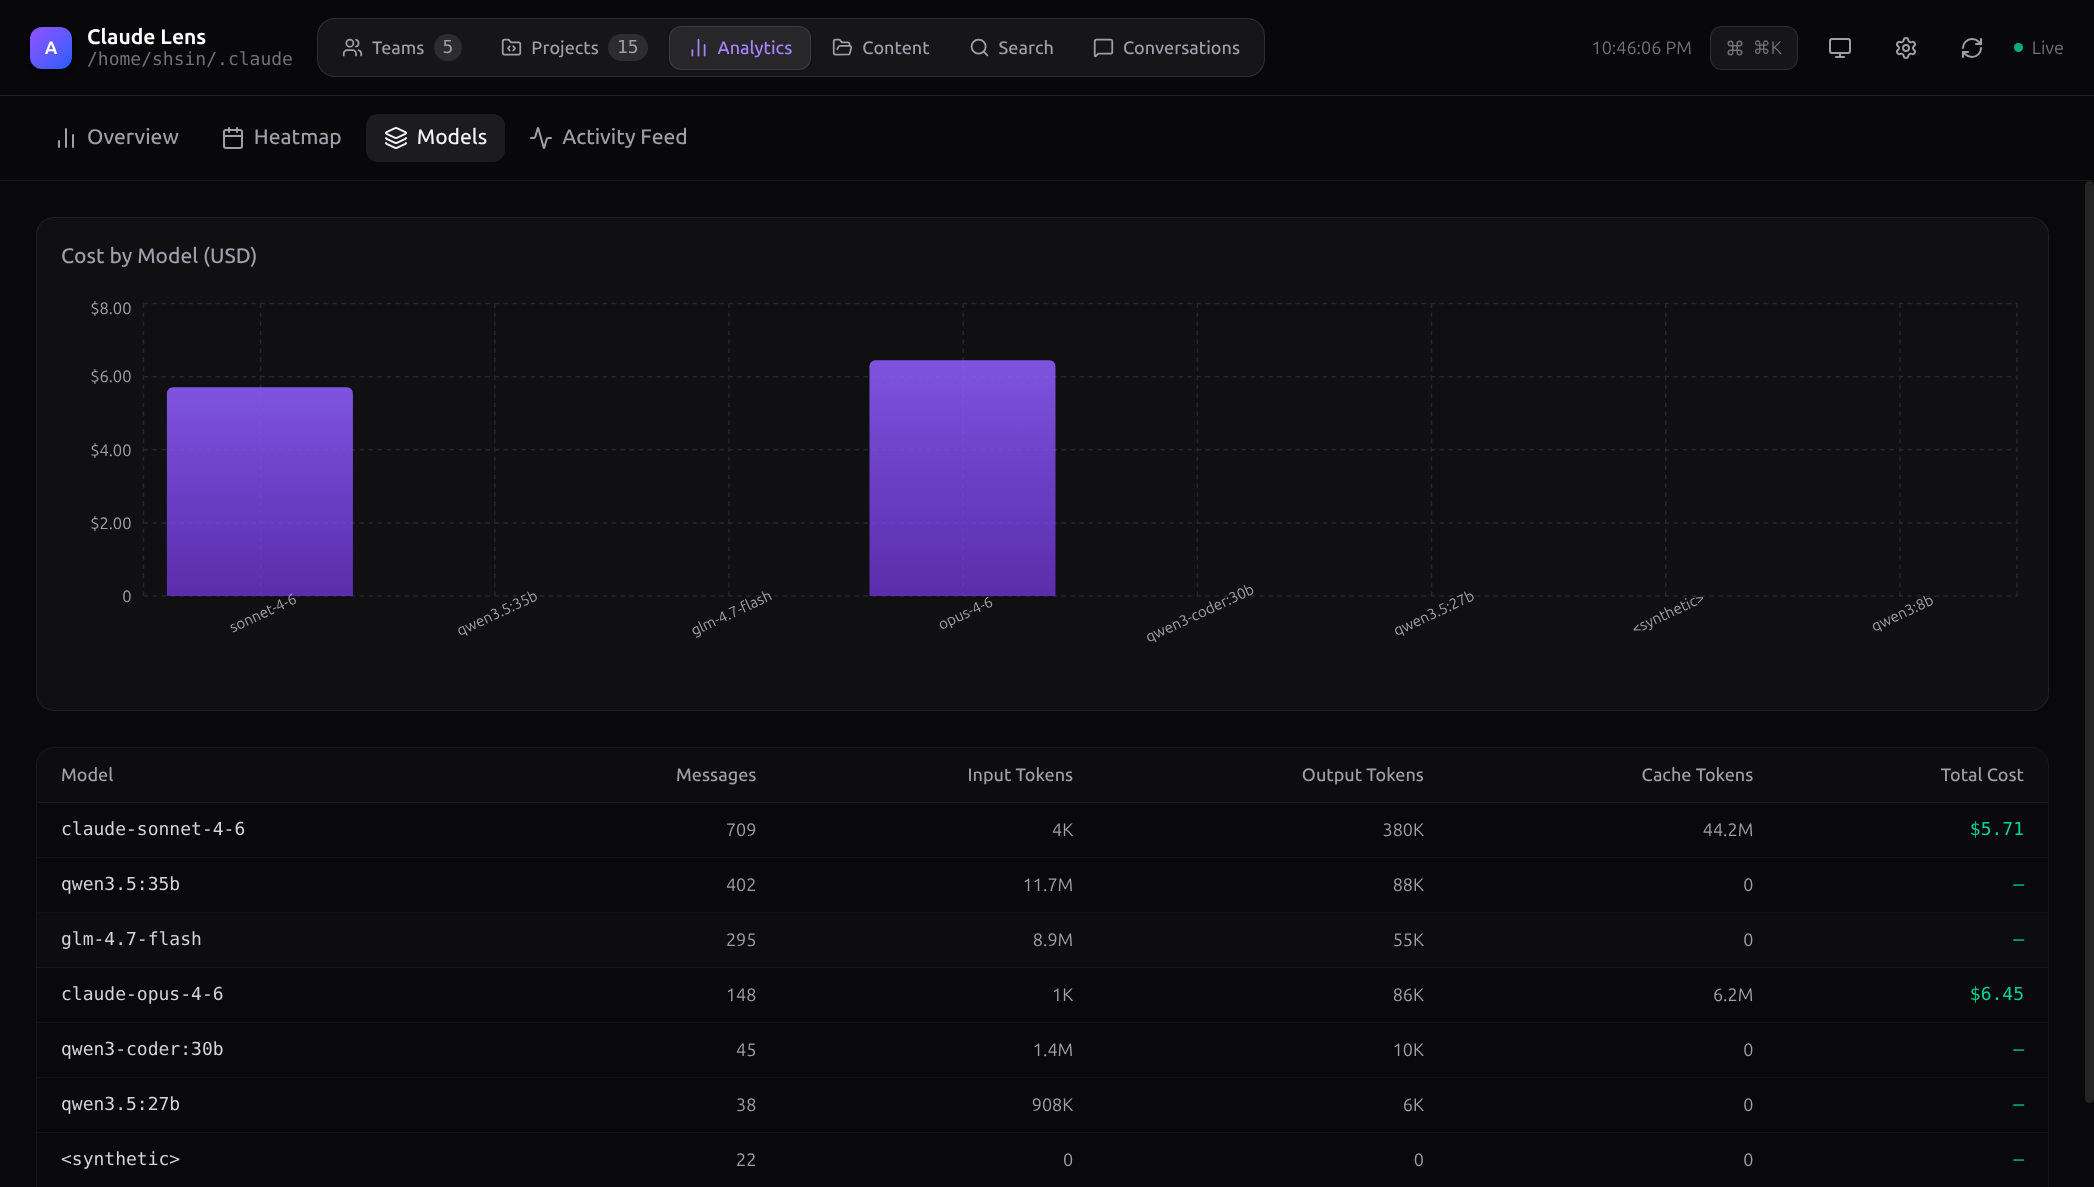
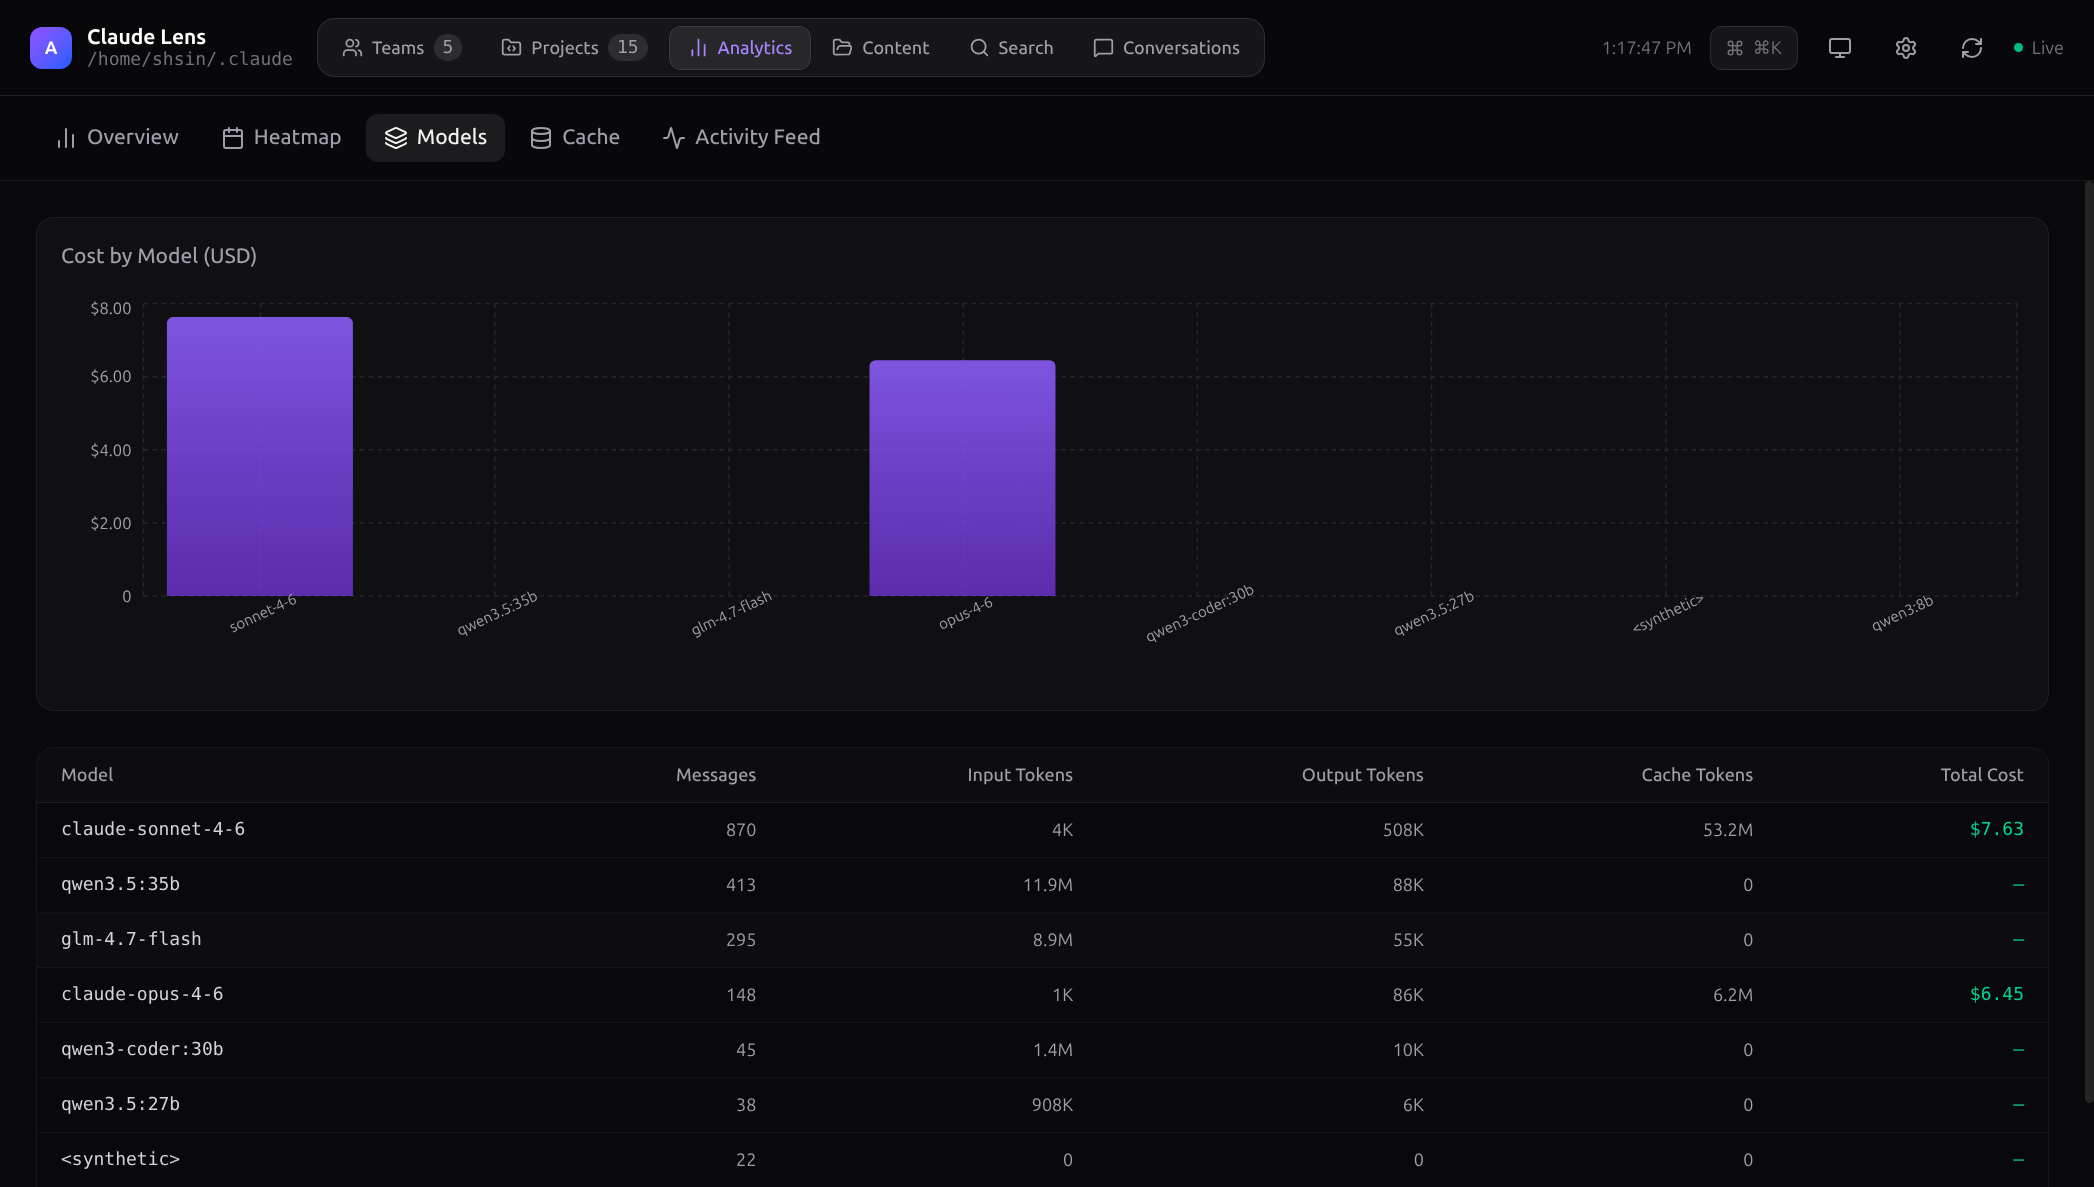
update claude lens

Changed region(s): [[0.0621, 0.2494, 0.1862, 0.3429], [0.2483, 0.0935, 0.4035, 0.1247]]

diff --git a/content/posts/claude-lens.md b/content/posts/claude-lens.md
@@ -1,151 +1,180 @@
 ---
-title: Claude Lens- The Control Tower for Claude Code Agent Teams
+title: "Claude Lens: The Missing GUI for Claude Code's Multi-Agent System"
 date: 2026-03-03
 tags:
   - agents
   - claude
 coverImage: /images/claude-lens/cover.png
-excerpt: Claude Lens turns your `~/.claude/` directory into a sleek, real-time observability dashboard for Claude Code's multi-agent system.
+excerpt: I built a desktop app that turns ~/.claude/ into a real-time observability dashboard. Teams, costs, conversations, analytics — one window, zero JSON spelunking.
 draft: false
 ---
-You spin up a team of agents, watch them scatter into the depths of your codebase, tasks start flowing, tokens start burning—and you're left staring at a scrolling terminal wondering:
 
-*What is actually happening?*
-*How much is this costing me?*
-*Did that task even finish, or is the agent hallucinating in an infinite loop?*
+You spawn a team of six agents. They fan out across your codebase — refactoring modules, writing tests, updating docs. Tokens burn. Tasks fly. And you're left staring at a terminal, wondering:
 
-Welcome to the chaos of multi-agent development.
+*Is that agent stuck in a loop? How much has this cost me? Did the migration task actually finish?*
 
-Enter **Claude Lens**.
+There's no dashboard. No overview. Just raw `.jsonl` files and `~/.claude/tasks/` directories you'd have to `cat` like a caveman.
 
-It's a native desktop app that turns your `~/.claude/` directory into a sleek, real-time observability dashboard.
-![Claude Lens](/images/claude-lens/card-view-dark.png) Think of it as the GUI that Claude Code's multi-agent system desperately needed but never shipped with.
+So I built one.
 
-I built it because I needed it. If you're a power user of Claude Code, you're going to need it too.
+**Claude Lens** is a native desktop app that reads your `~/.claude/` directory and gives you a real-time control tower over everything Claude Code does — teams, agents, tasks, costs, conversations, settings, and system health.
 
-[Github](https://github.com/shansin/claude-lens)
+![Claude Lens — Card View](/images/claude-lens/card-view-dark.png)
 
----
-## The Problem: Flying Blind in a Swarm
+It's open source, it's free, and if you're running multi-agent Claude Code, you probably need it.
 
-Claude Code's agent team feature is basically magic. You can spawn a lead agent, watch it recruit teammates, assign them tasks, and coordinate a massive refactor while you sip your coffee.
-
-But once that swarm is unleashed, your visibility is reduced to:
-
-- A terminal output scrolling past faster than you can read.
-- Manually `cat`-ing JSON files in `~/.claude/tasks/` like a caveman.
-- Having absolutely no idea what your token spend is until the API bill arrives.
-- Zero way to comfortably browse past conversations without spelunking through `.jsonl` files.
-
-For a single-agent session, you can manage. For a team of 4–6 agents operating in parallel? It's unmanageable.
-
-Claude Lens gives you a single, glorious pane of glass over **everything**: teams, tasks, agents, costs, conversations, analytics, and system health. And it's all updated in real-time.
+[GitHub](https://github.com/shansin/claude-lens)
 
 ---
-## What Claude Lens Actually Does
 
-### Real-Time Team Monitoring (Choose Your Fighter)
+## Why I Built This
 
-The Teams view is the heart of Claude Lens, and we've got three distinct layouts based on how your brain works:
+For single-agent sessions, the terminal is fine. But the moment you use Claude Code's team feature — a lead agent recruiting teammates, assigning tasks, coordinating across files — your visibility drops to zero.
 
-- **Card View**: A clean, responsive grid of team cards. Progress bars, agent counts, task lists, and cost breakdowns at a single glance.
-- **Graph View**: This is the eye candy. Built on React Flow, it renders your entire team topology as an interactive, animated node graph. Violet edges for team-agent links, animated blue pulses for in-progress tasks, and dashed orange for blocking dependencies. Zoom, pan, and click to inspect. It's the ultimate way to untangle complex dependency chains.
-- **Split View**: The pragmatist's layout. Graph on the left, juicy details and task lists on the right.
+Here's what "monitoring" looked like before:
+
+- Terminal output scrolling faster than you can read
+- Manually inspecting JSON task files to check status
+- No idea what your token spend is until the API bill arrives
+- Digging through `.jsonl` files to find what an agent said two days ago
+
+Claude Lens replaces all of that with a single window.
+
+---
+
+## Teams: Three Ways to See Your Swarm
+
+The Teams view is the nerve center. Choose the layout that fits your brain:
+
+**Card View** gives you a responsive grid — progress bars, agent counts, model badges, task lists, and live cost tracking per team.
 
 ![Card View](/images/claude-lens/card-view.png)
 
+**Graph View** renders your entire team topology as an interactive node graph. Violet edges for team-agent links, animated blue pulses for in-progress tasks, dashed orange for blocking dependencies. Click any node to inspect it.
+
 ![Graph View](/images/claude-lens/graph-view.png)
+
+**Split View** — graph on the left, detail panel on the right. The pragmatist's layout.
 
 ![Split View](/images/claude-lens/split-view.png)
 
-### Cost Tracking That Actually Works
+Need a new team? Hit **New Team** in the toolbar. Name it, describe it, click Create. No terminal required.
 
-I built this first because I was tired of guessing my token spend.
+---
 
-Claude Lens scans every JSONL conversation file, intelligently deduplicates messages (because Claude Code's streaming writes can massively overcount if you aren't careful), and calculates your exact USD cost using current Anthropic pricing across the Opus, Sonnet, and Haiku model families.
+## Projects at a Glance
 
-Costs are aggregated per team, per project, and per session. No more surprise bills. Just cold, hard numbers.
+The Projects view surfaces every Claude Code project on your machine as a card — total tokens, session count, cost breakdown, and which models were used. Sort by recency, cost, or token count. Click into any project to see its sessions.
 
-### Analytics Dashboard
+![Projects View](/images/claude-lens/projects-view.png)
 
-Want to know your AI habits? The Analytics view brings four tabs of pure insight:
-- **Usage Overview**: A 30-day stacked bar chart of input/output tokens and daily cost.
-- **Activity Heatmap**: A GitHub-style contribution calendar. Spot your heaviest AI usage days instantly.
-- **Model Comparison**: Are you really getting your money's worth out of Opus? Find out here.
-- **Activity Feed**: An audit log of all assistant turns.
+---
+
+## Analytics That Actually Tell You Something
+
+Five tabs of insight into your AI usage patterns.
+
+**Overview** — Token volume and daily cost as a stacked bar chart. Pick your window: 7, 30, or 90 days. The **Top Projects by Cost** panel shows your biggest spenders instantly.
 
 ![Analytics Overview](/images/claude-lens/analytics-overview.png)
 
+**Heatmap** — A GitHub-style contribution calendar for your Claude Code usage. Spot your heaviest days at a glance.
+
 ![Activity Heatmap](/images/claude-lens/activity-heatmap.png)
+
+**Models** — Side-by-side comparison of every model you've used: message counts, token volumes, cache utilization, and total cost. Are you getting your money's worth out of Opus? Find out here.
 
 ![Model Comparison](/images/claude-lens/analytics-models.png)
 
-![Activity Feed](/images/claude-lens/analytics-activity-feed.png)
+**Cache** — Your cache hit rate, total dollars saved from cache reads, and a daily area chart of cache write vs. read tokens. A 96% hit rate means your agents are sharing context efficiently — and you're paying dramatically less.
 
-### The Ultimate Conversation Browser
+![Cache Efficiency](/images/claude-lens/analytics-cache.png)
 
-Ever needed to re-read what an agent said during a session three days ago? Good luck parsing raw JSONL.
+All tabs lazy-load on first visit and silently refresh every 30 seconds, pausing automatically when you switch away.
 
-With Claude Lens, you get a beautiful, collapsible project tree. The conversation thread renders perfectly, complete with user/assistant bubbles, expandable tool-use blocks, and inline token counts.
+---
 
-Oh, and there's **Full-Text Search**. Debounced, lightning-fast search across every single session file on your disk with highlighted snippets. Click a result and jump straight to that moment in the conversation.
+## Conversations Without the JSONL Archaeology
+
+Ever needed to re-read what an agent said during a session three days ago? Good luck parsing raw JSONL by hand.
+
+Claude Lens gives you a collapsible project tree with every session listed. The conversation thread renders with proper user/assistant bubbles, expandable tool-use blocks, token counts, and per-session cost in the sidebar.
 
 ![Conversation Browser](/images/claude-lens/conversation-browser.png)
 
-![Search View](/images/claude-lens/search-view.png)
+**Ctrl+F** opens an inline search bar that highlights every match across the thread. **Export as Markdown** dumps the full conversation as a clean `.md` file. And there's **full-text search** across every session on disk — debounced, fast, with highlighted snippets. Click a result and jump straight in.
 
-### Settings, Hooks, & MCP Servers—Without the JSON
+![Full-Text Search](/images/claude-lens/search-view.png)
 
-We put a stunning GUI over `~/.claude/settings.json`:
+---
 
-- **General**: Tweak effort levels and bypass permissions with a simple dropdown. No text editor required.
-- **Hooks (with a Test Runner!)**: This is the killer feature. Not only can you manage your Pre/Post tool use hooks, but there's an **inline test runner**. Click play, and it runs your hook live, showing stdout/stderr and exit codes. No more switching to a terminal to debug your Slack webhooks!
-- **MCP Servers**: Add and manage your servers with a clean form.
-- **Profiles & Templates**: Snapshot your settings or save your favorite 5-agent team topology as a template for your next project.
+## Content: Memory, Plans, and Todos
 
-![Settings General](/images/claude-lens/settings-general.png)
+The Content view surfaces Claude Code's internal state — memory files, active plans, and todo lists — in a readable format. No more hunting through hidden directories to see what your agent "remembers."
 
-![Settings Hooks](/images/claude-lens/settings-hooks.png)
+![Content View](/images/claude-lens/content-view.png)
 
-![Settings MCP](/images/claude-lens/settings-mcp.png)
+---
 
-![Settings Notifications](/images/claude-lens/settings-notifications.png)
+## Settings Without the JSON Editing
 
-### Notifications & Budget Limits (A.K.A. The "Save My Wallet" Feature)
+A full GUI over `~/.claude/settings.json`:
 
-Get native OS notifications when tasks finish or teams are created—even if the app is chilling in the background.
+**General** — Effort levels, permission modes, environment variables, and status line commands. All dropdowns and toggles, no text editor.
 
-More importantly, set **Budget Limits**. Drop in a daily USD limit, and Claude Lens will hit you with a soft warning at your threshold, and a hard alert when you hit the cap. Don't let a rogue autonomous agent drain your API credits overnight.
+![Settings](/images/claude-lens/settings-general.png)
 
-![Command Palette](/images/claude-lens/command-palette.png)
+**Hooks** — Manage your Pre/Post tool-use hooks with an inline test runner. Click play, see stdout/stderr and exit codes live. No more switching to a terminal to debug your Slack webhook.
 
-### System Under the Hood
+![Hooks](/images/claude-lens/settings-hooks.png)
 
-Claude Lens includes a live process table to easily kill rogue `claude` sessions, Auth monitoring to warn you before your token expires, and Telemetry viewing.
+**MCP Servers** — Add and configure servers with a clean form. **Profiles & Templates** — Snapshot your settings or save your favorite multi-agent topology as a reusable template.
+
+---
+
+## Budget Alerts (Save Your Wallet)
+
+Set a daily USD limit. Claude Lens gives you a soft warning at your threshold and a hard alert when you hit the cap. Don't let a rogue autonomous agent drain your API credits overnight.
+
+Native OS notifications fire when tasks complete or teams are created — even when the app is in the background.
+
+---
+
+## System: Kill Rogue Agents
+
+The System view shows a live process table of every `claude` session on your machine. Each row has a **CPU sparkline** — a rolling 60-second mini-graph so you can tell at a glance whether a process is pegged at 100% or just idling. One click to kill it.
 
 ![System Processes](/images/claude-lens/system-view.png)
 
-![System Auth](/images/claude-lens/system-auth.png)
+Auth monitoring warns you before your token expires. The Telemetry tab shows recent events.
 
 ---
 
-## How It Works Under the Hood
+## Keyboard-First Navigation
 
-Claude Lens is a pure **read-mostly companion** to Claude Code. It never interferes with your running agents.
+| Shortcut | Action |
+|---|---|
+| `1` – `8` | Jump to any view |
+| `r` | Refresh data |
+| `Ctrl+K` / `Cmd+K` | Command palette |
+| `Ctrl+F` | Search current conversation |
+| `Escape` | Close palette / modal |
 
-A lightweight Node.js main process watches the filesystem (`chokidar`), handles the heavy JSONL scanning and deduplication, and pushes updates via IPC to the React frontend. No polling, just instant reactive goodness.
-
-**The Stack:**
-
-- **Runtime**: Electron 40
-- **Frontend**: React 19, TypeScript, Tailwind CSS v4
-- **Viz**: Recharts 3 & @xyflow/react (React Flow) v12
+![Command Palette](/images/claude-lens/command-palette.png)
 
 ---
 
-## Quick Start
+## Under the Hood
 
-Ready to take control of your agents?
+Claude Lens is a **read-mostly companion**. It never writes to your Claude Code state or interferes with running agents.
+
+A lightweight Node.js main process watches the filesystem with `chokidar`, handles JSONL scanning and deduplication (Claude Code's streaming writes can massively overcount if you're not careful), and pushes updates via IPC to the React frontend.
+
+**The stack:** Electron 40 / React 19 / TypeScript / Tailwind CSS v4 / Recharts / React Flow
+
+---
+
+## Get Started
 
 ```bash
 gh repo clone shansin/claude-lens
@@ -154,9 +183,9 @@ npm install
 npm run dev
 ```
 
-That's literally it. As long as you've used Claude Code before, the app will instantly read from `~/.claude/` and your dashboard will spring to life with your data.
+That's it. If you've used Claude Code before, the app reads from `~/.claude/` and your dashboard is live immediately.
 
-For a production build (macOS `.dmg`, Windows NSIS, Linux AppImage):
+For production builds (macOS `.dmg`, Windows NSIS, Linux AppImage):
 
 ```bash
 npm run build
@@ -166,8 +195,8 @@ npm run build
 
 ## Is This For You?
 
-If you run multi-agent Claude Code teams, care about your API costs, or just want a civilized way to browse past conversations and tweak settings without manually editing JSON files... then yes.
+If you run multi-agent Claude Code teams, care about your API costs, or want a civilized way to browse conversations and manage settings without hand-editing JSON — yes.
 
-Stop flying blind. Get the observability layer that turns *"I think my agents are working"* into *"I know exactly what every agent is doing, what it costs, and what happened."*
+Stop flying blind. Know exactly what every agent is doing, what it costs, and what happened.
 
-*Claude Lens is open source under the ISC license. Contributions are more than welcome.*
+*Claude Lens is open source under the ISC license. Contributions welcome.*

diff --git a/content/about.md b/content/about.md
@@ -4,7 +4,7 @@ title: About
 
 ## Hi, I'm Shantanu.
 
-My current focus is building and running powerful AI models on local hardware — no APIs, no subscriptions, just raw compute under my own roof. When I step away from the terminal, I'm usually training for my next endurance event.
+My current focus is building and running powerful AI models on local hardware. When I step away from the terminal, I'm usually training for my next endurance event.
 
 ### Why This Blog?
 

diff --git a/content/posts/1-draft-claude-leo.md b/content/posts/1-draft-claude-leo.md
@@ -1,0 +1,10 @@
+---
+title: Draft-Title
+date: 2025-12-01
+tags:
+  - local-ai
+  - agents
+coverImage: /images/<path>
+excerpt: "<excerpt>"
+draft: true
+---

diff --git a/content/posts/1-draft-local-RAG.md b/content/posts/1-draft-local-RAG.md
@@ -1,0 +1,10 @@
+---
+title: Draft-Title
+date: 2025-12-01
+tags:
+  - local-ai
+  - agents
+coverImage: /images/<path>
+excerpt: "<excerpt>"
+draft: true
+---

diff --git a/content/posts/1-draft-model-finetuning.md b/content/posts/1-draft-model-finetuning.md
@@ -1,0 +1,10 @@
+---
+title: Draft-Title
+date: 2025-12-01
+tags:
+  - local-ai
+  - agents
+coverImage: /images/<path>
+excerpt: "<excerpt>"
+draft: true
+---

diff --git a/content/posts/0-blog-draft-template.md b/content/posts/0-blog-draft-template.md
@@ -1,6 +1,6 @@
 ---
 title: Draft-Title
-date: 2026-02-20
+date: 2025-12-01
 tags:
   - local-ai
   - agents
